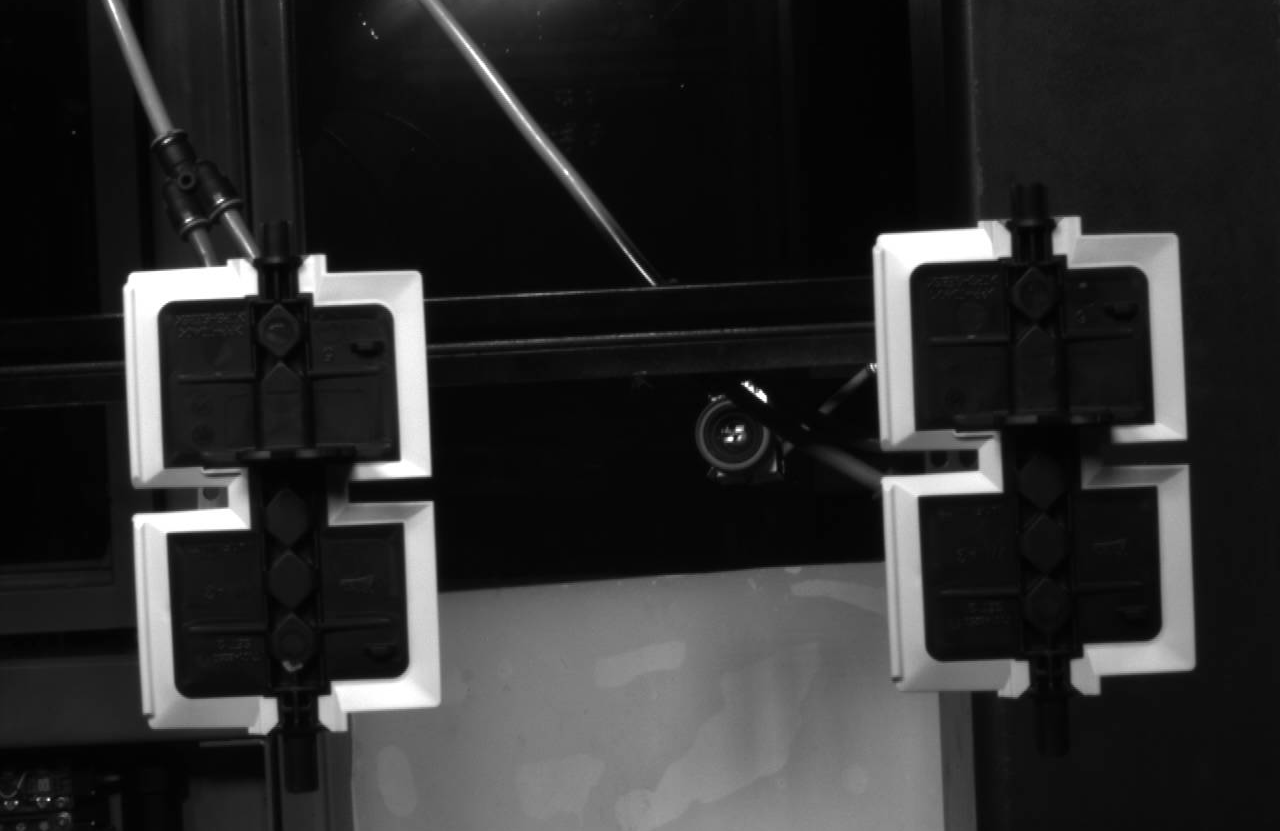
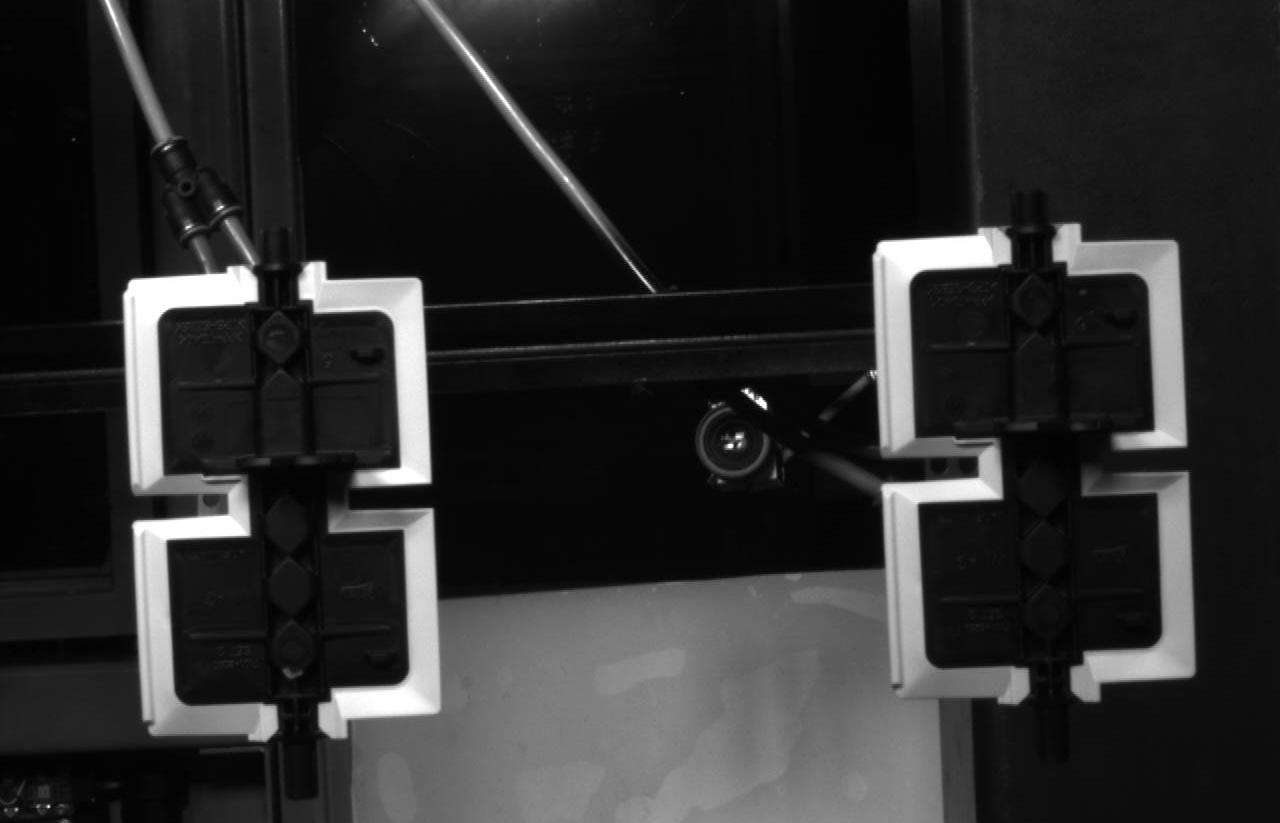
"Sjednocení názvosloví funkcí (get_masters) s frontendem a finální implementace Elvac SQL logiky."

diff --git a/database.py b/database.py
@@ -2,15 +2,14 @@ import sqlite3
 import mysql.connector
 from datetime import datetime
 
-# --- LOKÁLNÍ SQLITE (Konfigurace systému) ---
+# --- LOKÁLNÍ SQLITE (Konfigurace ve stylu Elvac/Vision Builder) ---
 
 def init_db():
-    """Inicializace lokální databáze vision_system.db s opravou syntaxe."""
+    """Inicializace lokální databáze vision_system.db."""
     conn = sqlite3.connect('vision_system.db')
     c = conn.cursor()
     
-    # Tabulka pro Master obrázky (projekty) a jejich AOI (ořez)
-    # Opraveno: Přidány správné mezery mezi typem a DEFAULT
+    # Tabulka pro Master (hlavní projekty a AOI)
     c.execute('''CREATE TABLE IF NOT EXISTS masters 
                  (id INTEGER PRIMARY KEY AUTOINCREMENT, 
                   name TEXT, 
@@ -20,7 +19,7 @@ def init_db():
                   w INTEGER DEFAULT 1920, 
                   h INTEGER DEFAULT 1080)''')
     
-    # Tabulka pro ROI (zóny inspekce)
+    # Tabulka pro ROI (inspekční zóny - jako v Elvacu)
     c.execute('''CREATE TABLE IF NOT EXISTS rois 
                  (id INTEGER PRIMARY KEY AUTOINCREMENT, 
                   master_id INTEGER, 
@@ -33,7 +32,7 @@ def init_db():
     print("✅ Lokální SQLite databáze byla inicializována.")
 
 def save_project(name):
-    """Vytvoří nový projekt v databázi."""
+    """Vytvoří nový projekt."""
     conn = sqlite3.connect('vision_system.db')
     c = conn.cursor()
     c.execute("INSERT INTO masters (name, image_path) VALUES (?, ?)", (name, ""))
@@ -41,26 +40,33 @@ def save_project(name):
     conn.close()
 
 def add_master(master_id, name, x, y, w, h, path):
-    """Uloží/Aktualizuje data pro Master obrázek."""
+    """Aktualizuje master data (AOI)."""
     conn = sqlite3.connect('vision_system.db')
     c = conn.cursor()
     c.execute("UPDATE masters SET name=?, x=?, y=?, w=?, h=?, image_path=? WHERE id=?", 
               (name, x, y, w, h, path, master_id))
     conn.commit()
     conn.close()
-    print(f"✅ Master '{name}' aktualizován.")
 
-def get_projects():
-    """Načte seznam všech projektů."""
+# Tato funkce ti chyběla (v app.py voláš get_masters)
+def get_masters(project_id=None):
+    """Alias pro get_projects, aby seděl na tvůj app.py."""
     conn = sqlite3.connect('vision_system.db')
     c = conn.cursor()
-    c.execute("SELECT id, name, image_path, x, y, w, h FROM masters")
+    if project_id:
+        c.execute("SELECT id, name, image_path, x, y, w, h FROM masters WHERE id=?", (project_id,))
+    else:
+        c.execute("SELECT id, name, image_path, x, y, w, h FROM masters")
     data = c.fetchall()
     conn.close()
     return data
 
+def get_projects():
+    """Záložní funkce pro seznam projektů."""
+    return get_masters()
+
 def get_rois(master_id):
-    """Načte inspekční zóny pro vybraný projekt."""
+    """Načte zóny pro konkrétní projekt."""
     conn = sqlite3.connect('vision_system.db')
     c = conn.cursor()
     c.execute("SELECT * FROM rois WHERE master_id=?", (master_id,))
@@ -68,10 +74,10 @@ def get_rois(master_id):
     conn.close()
     return data
 
-# --- VZDÁLENÁ MARIADB (Výsledky pro Elvac systém) ---
+# --- VZDÁLENÁ MARIADB (Výsledky Elvac) ---
 
 def save_result_to_mariadb(host, project_name, result_bool):
-    """Zapíše výsledek inspekce na centrální SQL server."""
+    """Zapíše výsledek do centrálního SQL na hale (IP 10.42.0.100)."""
     try:
         conn = mysql.connector.connect(
             host=host,
@@ -88,4 +94,4 @@ def save_result_to_mariadb(host, project_name, result_bool):
         cursor.close()
         conn.close()
     except Exception as e:
-        print(f"ℹ SQL Server nedostupný: {e}")
+        print(f"ℹ SQL Server 10.42.0.100 nedostupný: {e}")
